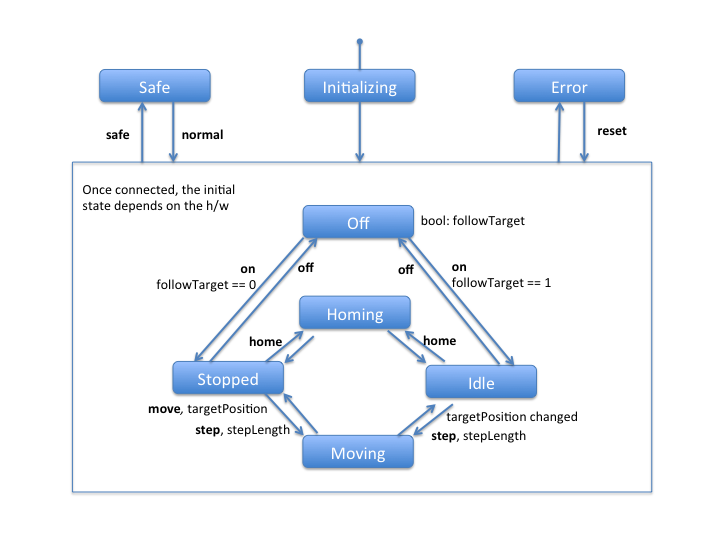
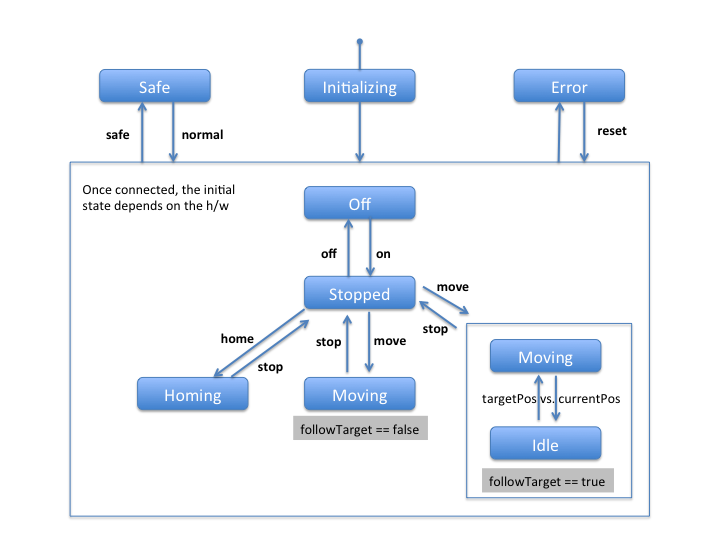
Fixed a documentation bug
git-svn-id: https://svnsrv.desy.de/desy/EuXFEL/WP76/karabo/karaboFramework/branches/1.3@17854 a23ab9f9-1ea2-4934-960d-990259f9ea8c

Changed region(s): [[0.0917, 0.2963, 0.9167, 0.9778]]

diff --git a/doc/library/interfaces.rst b/doc/library/interfaces.rst
@@ -24,32 +24,79 @@ The following (device-)states are available:
 * Moving
 * Homing
 
+**Safe**
+
+This state should be used to reflect critical situations. Moving into
+safe state using the command *safe*, is similiar to hitting some
+emergency button. Depending on the specific instance the motor will
+either be stopped or turned off and then brought to safe state. Broken
+interlock conditions for example may lead to this behavior. The safe
+state protects the device from macros or user inputs that may still
+issues commands although the system should not be touched.
+
+**Error**
+
+Will be the state in case any error conditions or hardware faults are
+encountered.
+
+**Initializing**
+
+The state during which the control software tries to connect to the
+motor firmware.
+
+**Off**
+
+The connection to the motor is established, however the motor is
+turned off, i.e. no currents are applied to the coils. The motor
+should be manually (by hand) movable and unplugging it is safe.
+
+**Stopped**
+
+The motor does not move, but typically some current (see *reducedCurrent*) is applied, holding the motor in position. However, in this state the motor won't try to automatically correct for the target position.
+
+**Idle**
+
+This state can only be reached, if the motor runs in *followTarget* mode and currently is in the targetPosition (respecting some *deadband*). Any target position change will atomatically lead to a movement of the motor.
+
+**Moving**
+
+This is the state the motor is in while it is moving.
+
+**Homing**
+
+This states indicates that the motor is running an instance specific homing procedure. Once completed it will fall back to *Stopped* state and the *currentPosition* will typicaly 0'ed.   
+
+
 Commands
 --------
 
 The following commands are available:
 
-+------------+----------------+-----------+
-| Command    | Allowed States | Access    |
-+============+================+===========+
-| on         | Off            | Operator  |
-+------------+----------------+-----------+
-| off        | On             | Operator  |
-+------------+----------------+-----------+
-| stop       | Moving, Homing | Operator  |
-+------------+----------------+-----------+
-| home       | Stopped, Idle  | Operator  |
-+------------+----------------+-----------+
-| move       | Stopped, Idle  | Operator  |
-+------------+----------------+-----------+
-| stepUp     | Stopped, Idle  | Operator  |
-+------------+----------------+-----------+
-| stepDown   | Stopped, Idle  | Operator  |
-+------------+----------------+-----------+
-| safe       | Any            | Operator  |
-+------------+----------------+-----------+
-| normal     | safe           | Expert    |
-+------------+----------------+-----------+
++------------+----------------------+-----------+
+| Command    | Allowed States       | Access    |
++============+======================+===========+
+| on         | Off                  | Operator  |
++------------+----------------------+-----------+
+| off        | Stopped              | Operator  |
++------------+----------------------+-----------+
+| stop       | Moving, Homing, Idle | Operator  |
++------------+----------------------+-----------+
+| home       | Stopped, Idle        | Operator  |
++------------+----------------------+-----------+
+| move       | Stopped, Idle        | Operator  |
++------------+----------------------+-----------+
+| safe       | *Any*                | Operator  |
++------------+----------------------+-----------+
+| normal     | Safe                 | Expert    |
++------------+----------------------+-----------+
+
+
+NOTE: The Beckhoff based motors currently also have a stepUp and a stepDown
+command and in combination with the *stepLength* property allow for
+relative movements. In future the idea is to equip the GUI with the functionality to
+increase property values in steps and auto-apply, which if executed on
+the targetPosition (see below) solves the problem generically.
+
 
 The state diagram below summarizes states, commands and their transitions:
 
@@ -58,17 +105,16 @@ The state diagram below summarizes states, commands and their transitions:
 General Properties
 ------------------
 
-**Current Position**
+**currentPosition**
 
 NOTE: In the current beckhoffMotor this property is called *encoderPosition*
 
 Always shows the current absolute position in the physical unit: millimeters or milli-radian.
 
-* Key: currentPosition
 * Type: double
 * Access Mode: read-only	      
 
-**Target Position**
+**targetPosition**
 
 Sets an absolute target position in the physical unit: millimeters or
 milli-radian. The behavior of the motor after setting this property
@@ -77,29 +123,27 @@ the target position will only be loaded to the controller, but the
 motor won't move until the command *move* is triggered. 
 
 If the motor is in *Idle* state, the motor will immediately move to the applied
-target position. **NOTE**: This is an exception to the usual design in Karabo, in which property changes typically don't result in state changes!
+target position. NOTE: This is an exception to the usual design in Karabo, in which property changes typically don't result in state changes!
 
-* Key: targetPosition
 * Type: double
 * Access Mode: reconfigurable
 * Allowed States: Stopped, Off, Idle, Moving
 
-**Follow Target**
+**followTarget**
 
 A boolean flag that decides how the motor should react with respect to
 the currently loaded target position.
  
 If followTarget is set to true, the next move command will bring the
 motor into a closed loop such that it always corrects it's position
-(respecting a defined *dead band*) to match the target position's
+(respecting a defined *deadband*) to match the target position's
 value. The states will be *Moving* when the motor moves and *Idle*
 once the motor is on target. 
 
 If followTarget is set to false, the motor will not stay in a closed
 loop once the targetPosition is reached, but will fall back to
-*Stopped* state once the motor is on target.
+*Stopped* state.
 
-* Key: followTarget
 * Type: bool
 * Access Mode: reconfigurable
 * Allowed States: Stopped
@@ -108,7 +152,6 @@ loop once the targetPosition is reached, but will fall back to
 
 Boolean value indicating whether the motor is in the upper limit switch.
 
-* Key: isHardLimitUpper
 * Type: bool
 * Access Mode: read-only
 
@@ -116,7 +159,6 @@ Boolean value indicating whether the motor is in the upper limit switch.
 
 Boolean value indicating whether the motor is in the lower limit switch.
 
-* Key: isHardLimitLower
 * Type: bool
 * Access Mode: read-only
 
@@ -124,7 +166,6 @@ Boolean value indicating whether the motor is in the lower limit switch.
 
 Boolean value indicating whether the motor is in the home switch.
 
-* Key: isHardLimitHome
 * Type: bool
 * Access Mode: read-only
 
@@ -132,7 +173,6 @@ Boolean value indicating whether the motor is in the home switch.
 
 Boolean value indicating whether the motor reached the soft upper limit (as defined by softLimitUpper).
 
-* Key: isSoftLimitUpper
 * Type: bool
 * Access Mode: read-only
 
@@ -141,20 +181,18 @@ Boolean value indicating whether the motor reached the soft upper limit (as defi
 
 Boolean value indicating whether the motor reached the soft lower limit (as defined by softLimitLower).
 
-* Key: isSoftLimitLower
 * Type: bool
 * Access Mode: read-only
 
-**Deadband**
+**deadband**
 
 Defines the deviation from the targetPosition in physical units for which the controller still reports to be on target.
 
-* Key: deadband
 * Type: float
 * Access Mode: reconfigurable (expert)
 * Allowed State: Off, Stopped, Idle
 
-**Backlash**
+**backlash**
 
 If this attribute is defined to something different than 0, the motor
 will always stop the motion coming from the same mechanical
@@ -168,87 +206,90 @@ motor position direction. If the sign is negative, this means that the
 authorized direction to stop the motion is the decreasing motor
 position direction.
 
-* Key: backlash
 * Type: float
 * Access Mode: reconfigurable (expert)
 
-**Reset Current Position**
+**resetCurrentPosition**
 
 This property acts like a software homing. The value given by this property will be treated as the *currentPosition* for the location the motor is currently in.
 The upper and lower soft limits are adapted accordingly.
 
-* Key: resetCurrentPosition
 * Type: double
 * Access Mode: reconfigurable (expert)
 * Allowed State: Off, Stopped, Idle
 
+**isHomed**
+
+Boolean flag indicating, whether the motor was homed before. The flag gets position either after using the homing procedure or after *resetCurrentPosition* was applied.
+
+* Type: bool
+* Access: read-only
+
 Beckhoff Specific Properties
 ----------------------------
 
-**Step Length**
+**stepLength**
 
 The step length is used in conjuction with the *stepUp* and *stepDown* commands. It describes the relativ length in physical units (millimeter or milli-radian) that the motor is moved.
 
-* Key: stepLength
 * Type: float
 * Access Mode: reconfigurable
 * Allowed States: Off, Stopped, Idle
 
-**Offset**
+**offset**
 
 The offset to be applied in the motor position computation. By default
 set to 0. It is typically memorized on the motor hardware. It is changed upon changing the value of *resetCurrentPosition*.
 
-* Key: offset
 * Type: double
 * Access Mode: reconfigurable (expert)
 * Allowed States: Off, Stopped, Idle
 
-**Step Counter Position**
+**stepCounterPosition**
 
 The step counter position describes the motor position calculated from counter steps (instead of encoder values).
+NOTE: The property should only be used for debugging purposes.
 
-* Key: stepCounterPosition
 * Type: float
 * Access Mode: read-only (expert)
 
-**Gear**
+**gear**
 
 NOTE: This property should in future be renamed to stepsPerUnit.
 
 The gear defines how many (micro-)steps are finally done to move the motor by one physical unit (millimeter, milli-radian or degree). 64 micro-steps are done per step and something like ~200 steps (depends on motor) will result in a full rotation.
 
-* Key: gear
 * Type: float
 * Access: reconfigurable (expert)
 * Allowed States: Off, Stopped 
 
-**Encode Step**
+**encodeStep**
 
 This property describes the factor by which each encoder step should be scaled to correctly map to the physical unit. If no encoder is present the value will represent the length of a microstep (i.e. 1 / gear).
 
-* Key: encodeStep
 * Type: float
 * Access: reconfigurable (expert) 
 
-**Epsilon**
+**epsilon**
 
 The epsilon determines the difference in change (in physical units) until a new physical value is posted from the hardware, i.e. updates the value of *currentPosition*.
 
 NOTE: In the current implementation, care must be taken with very small values of epsilon, as this results in sending very many messages.
 
-* Key: epsilon
 * Type: float
 * Access Mode: reconfigurable (expert)
 
-**Acceleration**
+**vMax**
 
+Maximum velocitiy. In position mode, the motor will drive with this velocity. 
 
-**Deceleration**
+**aMax**
 
+Maximum acceleration.
 
-**Velocity**
+**iMax**
 
+Maximum current.
 
 
 
